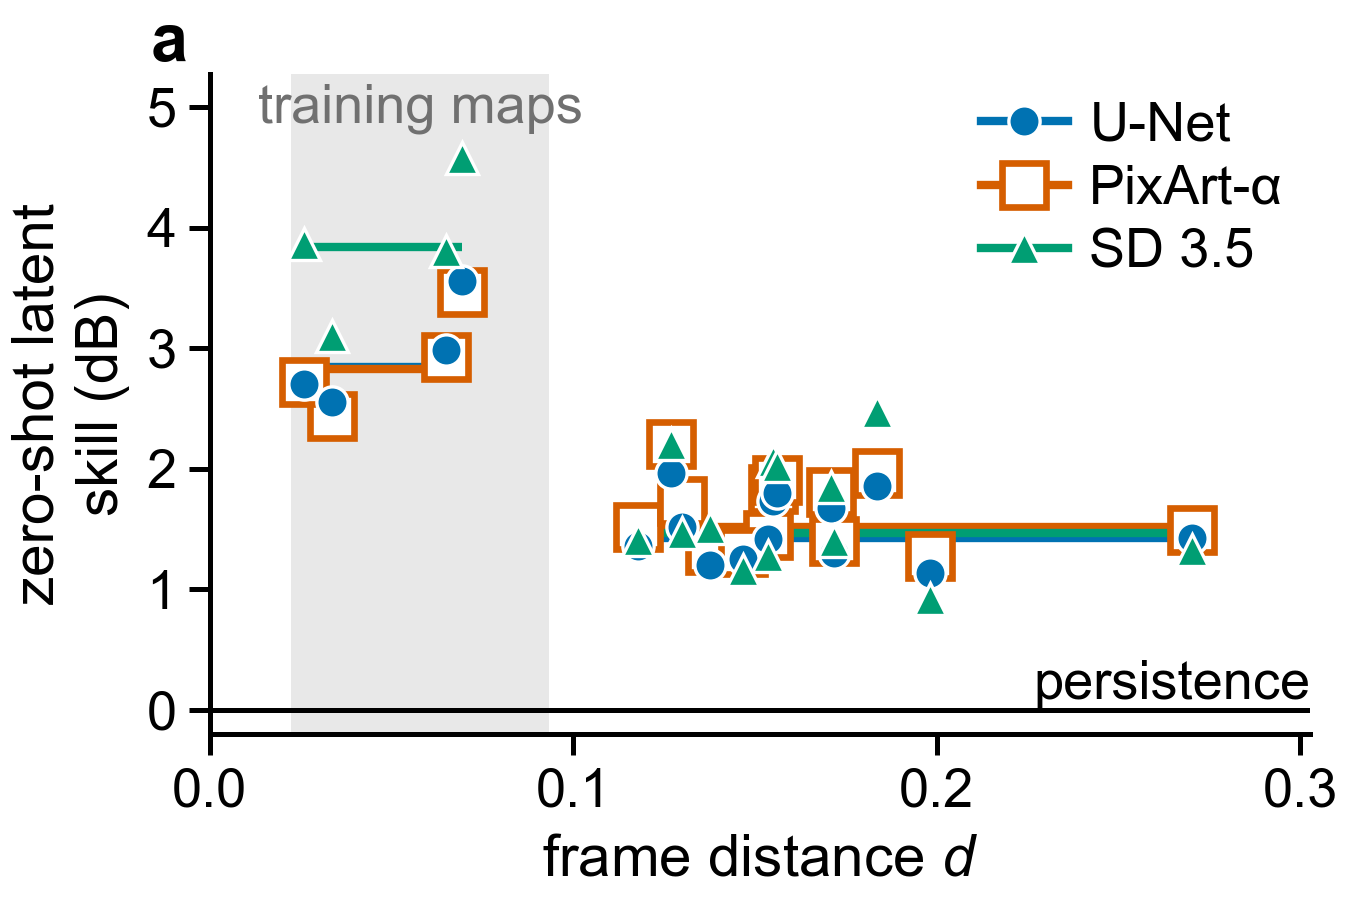
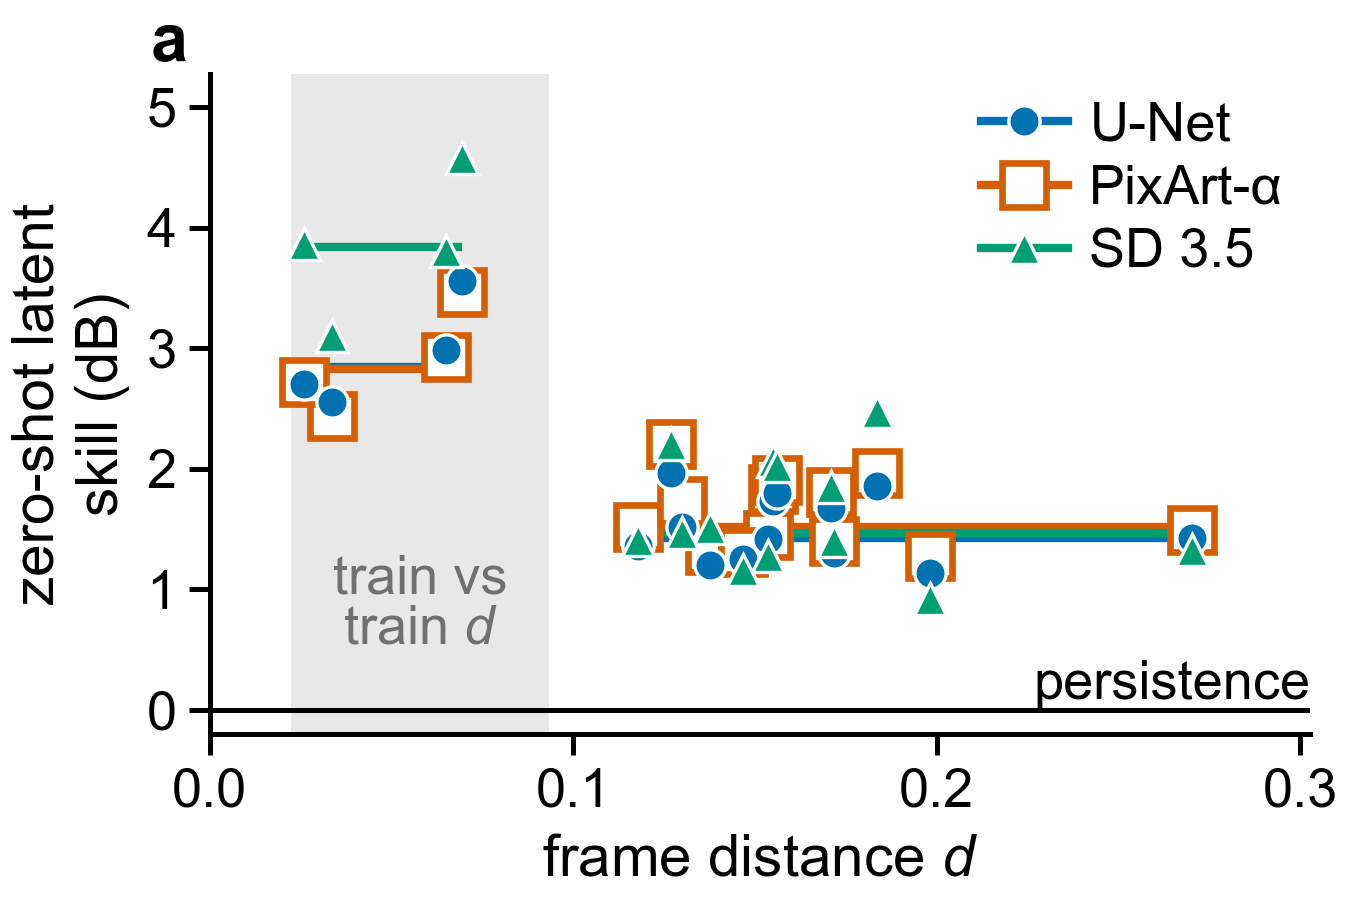
label figure 3a's band inside the figure as the train vs train distance range

Changed region(s): [[0.1867, 0.0933, 0.4356, 0.1556], [0.2489, 0.6222, 0.3733, 0.7156]]

diff --git a/tools/family_step.py b/tools/family_step.py
@@ -367,15 +367,21 @@ FAMILY_SIZE = (2.25, 1.5)                   # Figure 3a beside 3b in one row, se
 DEFICIT_SIZE = maf.HALF_SIZE
 
 
+def band_label(ax, floor):
+    """The band's direct label, "train vs train d" on two lines, centred on the band in its empty lower part (the
+    training maps' points sit above 2 dB, and the persistence line and its label run along 0)."""
+    return ax.text((floor["min"] + floor["max"]) / 2, 0.12, "train vs\ntrain $d$", transform=ax.get_xaxis_transform(),
+                   ha="center", va="bottom", fontsize=fs.ANNOT_PT, color=fs.TRAINING_LINE, linespacing=1.0)
+
+
 def fig_family_step(entries, floor, out_dir):
     """Figure 3a: zero-shot skill S0 against the frame distance D per map, three backbones in their encoding colours
     and markers; the training maps' D floor as the grey band; per backbone the step drawn as two median segments,
     one across the training maps' D range and one across the arenas', keyed in the empty upper right; copy-last at 0.
-    At 2.25 in the band is too narrow to hold its label, so "training maps" sits at the band's top."""
+    The band is named inside itself (`band_label`), since the caption no longer describes it."""
     fig, (ax,) = fs.new_figure(FAMILY_SIZE)
     fs.training_band(ax, floor["min"], floor["max"])
-    ax.text((floor["min"] + floor["max"]) / 2, 0.985, "training maps", transform=ax.get_xaxis_transform(),
-            ha="center", va="top", fontsize=fs.ANNOT_PT, color=fs.TRAINING_LINE)
+    band_label(ax, floor)
     handles = []
     for name, e in entries.items():
         key = fs.backbone_of(name)

diff --git a/paper/fixtures/test_family_step.py b/paper/fixtures/test_family_step.py
@@ -283,3 +283,15 @@ def test_the_two_panels_are_written_in_the_builders_style(tmp_path):
         m = re.search(rb"/MediaBox\s*\[\s*0\s+0\s+([\d.]+)\s+([\d.]+)\s*\]", pdf)
         assert float(m.group(1)) / 72 == pytest.approx(size[0], abs=0.01)
         assert float(m.group(2)) / 72 == pytest.approx(size[1], abs=0.01)
+
+
+def test_the_band_is_labelled_in_the_figure_as_the_train_vs_train_distance_range():
+    # the caption no longer describes the band (page 4 is full), so the figure names it inside the band
+    fs.fs.style()
+    fig, (ax,) = fs.fs.new_figure(fs.FAMILY_SIZE)
+    ax.set_xlim(0, 0.3)
+    ax.set_ylim(-0.2, 5.3)
+    t = fs.band_label(ax, {"min": 0.022, "max": 0.093})
+    assert t.get_text().replace("\n", " ") == "train vs train $d$" and t.get_fontsize() >= fs.fs.MIN_PT
+    x, y = t.get_position()
+    assert 0.022 < x < 0.093 and y < 0.5                              # centred on the band, in its empty lower part
